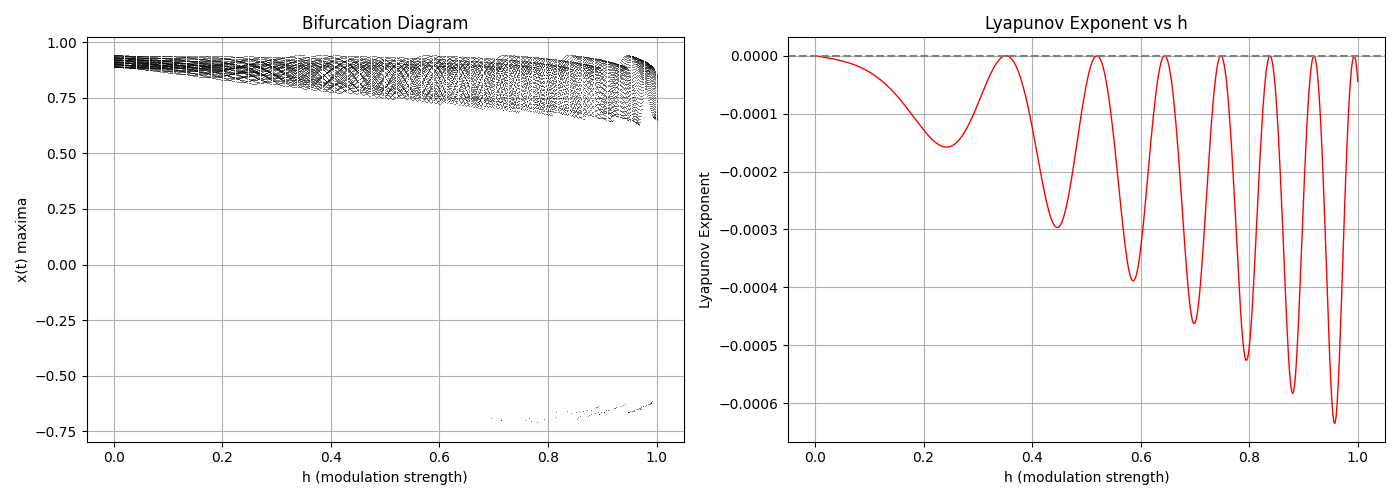
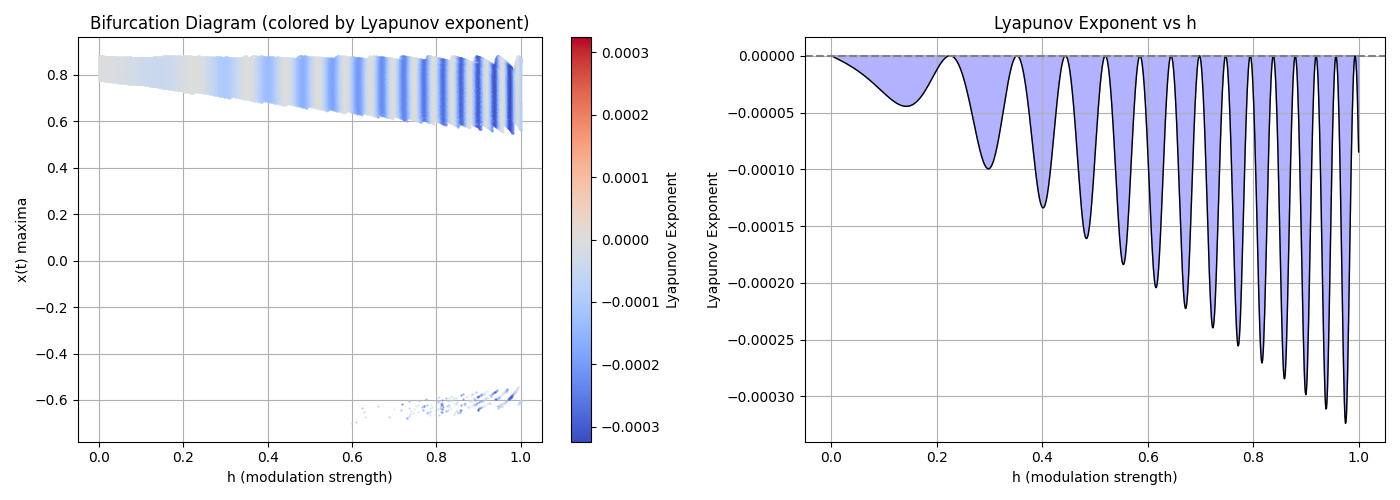
modified:   experimental/statistic.png modified:   experimental/weierstrass_parametric_oscillator_stat.py

diff --git a/experimental/weierstrass_parametric_oscillator_stat.py b/experimental/weierstrass_parametric_oscillator_stat.py
@@ -3,224 +3,157 @@ import matplotlib.pyplot as plt
 from scipy.signal import argrelextrema
 from numba import njit
 
+
 @njit
-def weierstrass(t, a, b, n_terms):
-    """
-    Calculates the Weierstrass function at a given time t.
-
-    Args:
-        t (float): The time at which to evaluate the function.
-        a (float): Parameter of the Weierstrass function.
-        b (float): Parameter of the Weierstrass function.
-        n_terms (int): Number of terms to sum in the series.
-
-    Returns:
-        float: The value of the Weierstrass function.
-    """
-    total = 0.0
+def precompute_powers(a, b, n_terms):
+    a_powers = np.empty(n_terms)
+    b_powers = np.empty(n_terms)
+    a_val = 1.0
+    b_val = 1.0
     for n in range(n_terms):
-        total += a**n * np.cos(np.pi * b**n * t)
-    return total
+        a_powers[n] = a_val
+        b_powers[n] = b_val
+        a_val *= a
+        b_val *= b
+    return a_powers, b_powers
+
 
 @njit
-def solve_oscillator(t, omega0, h, a, b, n_terms, dt):
-    """           
-    Solves the modified harmonic oscillator equation using a numerical method.
+def precompute_weierstrass(t, a_powers, b_powers):
+    n_terms = len(a_powers)
+    W = np.empty(len(t))
+    for i in range(len(t)):
+        total = 0.0
+        for n in range(n_terms):
+            total += a_powers[n] * np.cos(np.pi * b_powers[n] * t[i])
+        W[i] = total
+    return W
 
-    Args:
-        t (np.ndarray): Array of time points.
-        omega0 (float): Natural frequency of the oscillator.
-        h (float): Modulation strength.
-        a (float): Parameter for Weierstrass function.
-        b (float): Parameter for Weierstrass function.
-        n_terms (int): Number of terms for Weierstrass function.
-        dt (float): Time step size.
 
-    Returns:
-        tuple: x (np.ndarray), v (np.ndarray), W (np.ndarray) -
-               position, velocity, and Weierstrass function values over time.
-    """
+@njit
+def solve_oscillator_with_W(t, omega0, h, W, dt):
     n_steps = len(t)
     x = np.zeros(n_steps)
     v = np.zeros(n_steps)
-    x[0] = 1.0  # Initial position
-    v[0] = 0.0  # Initial velocity
-    W = np.zeros(n_steps)
-
+    x[0] = 1.0
+    v[0] = 0.0
     for i in range(1, n_steps):
-        # Calculate Weierstrass function at current time step
-        W_current = weierstrass(t[i-1], a, b, n_terms)
-        W[i-1] = W_current
-
-        # Calculate omega_sq for the current step
-        omega_sq = omega0**2 * (1 + h * W_current)
-
-        # Update position using a modified Euler-Cromer like method
-        # This is an approximation for the second-order differential equation
+        omega_sq = omega0**2 * (1 + h * W[i-1])
         x[i] = x[i-1] + v[i-1]*dt - 0.5 * omega_sq * x[i-1] * dt**2
-
-        # Calculate omega_sq for the next step (for velocity update)
-        W_next = weierstrass(t[i], a, b, n_terms)
-        omega_sq_next = omega0**2 * (1 + h * W_next)
-
-        # Update velocity
-        # This update uses an average of current and next omega_sq for better accuracy
+        omega_sq_next = omega0**2 * (1 + h * W[i])
         v[i] = v[i-1] - 0.5 * (omega_sq + omega_sq_next) * x[i] * dt
-    return x, v, W
+    return x, v
+
 
 @njit
-def compute_lyapunov(t, omega0, h, a, b, n_terms, dt, delta0=1e-8):
-    """
-    Computes the largest Lyapunov exponent for the modified harmonic oscillator.
-    Uses the Benettin algorithm for calculating the Lyapunov exponent.
-
-    Args:
-        t (np.ndarray): Array of time points.
-        omega0 (float): Natural frequency of the oscillator.
-        h (float): Modulation strength.
-        a (float): Parameter for Weierstrass function.
-        b (float): Parameter for Weierstrass function.
-        n_terms (int): Number of terms for Weierstrass function.
-        dt (float): Time step size.
-        delta0 (float, optional): Initial perturbation magnitude. Defaults to 1e-8.
-
-    Returns:
-        float: The computed Lyapunov exponent.
-    """
+def compute_lyapunov_with_W(t, omega0, h, W, dt, delta0=1e-8):
     n_steps = len(t)
-    x = 1.0  # Initial position of reference trajectory
-    x_perturbed = x + delta0 # Initial position of perturbed trajectory
-    v = 0.0  # Initial velocity of reference trajectory
-    v_perturbed = v # Initial velocity of perturbed trajectory (same as reference for dv=0)
+    x = 1.0
+    x_perturbed = x + delta0
+    v = 0.0
+    v_perturbed = v
     sum_log_divergence = 0.0
 
     for i in range(1, n_steps):
-        # Evaluate Weierstrass function at the previous time step for omega_sq calculation
-        W_current = weierstrass(t[i-1], a, b, n_terms)
-        omega_sq_current = omega0**2 * (1 + h * W_current)
+        omega_sq = omega0**2 * (1 + h * W[i-1])
+        x_new = x + v * dt - 0.5 * omega_sq * x * dt**2
+        v_new = v - 0.5 * omega_sq * (x + x_new) * dt
+        x_perturbed_new = x_perturbed + v_perturbed * \
+            dt - 0.5 * omega_sq * x_perturbed * dt**2
+        v_perturbed_new = v_perturbed - 0.5 * omega_sq * \
+            (x_perturbed + x_perturbed_new) * dt
 
-        # Propagate reference trajectory
-        x_new = x + v * dt - 0.5 * omega_sq_current * x * dt**2
-        # For velocity, use current omega_sq and the new position (x_new)
-        v_new = v - 0.5 * omega_sq_current * (x + x_new) * dt
-
-        # Propagate perturbed trajectory
-        x_perturbed_new = x_perturbed + v_perturbed * dt - 0.5 * omega_sq_current * x_perturbed * dt**2
-        v_perturbed_new = v_perturbed - 0.5 * omega_sq_current * (x_perturbed + x_perturbed_new) * dt
-
-        # Calculate the divergence vector
         dx = x_perturbed_new - x_new
         dv = v_perturbed_new - v_new
-
-        # Calculate the current divergence magnitude
         delta = np.sqrt(dx*dx + dv*dv)
 
-        # Avoid division by zero if delta becomes zero (should ideally not happen with proper dynamics)
         if delta == 0.0:
-            # If divergence is zero, re-perturb to delta0 to avoid issues, or continue
-            # For robust Lyapunov calculation, it's better to re-perturb
-            # For this simple example, we'll continue, but a more rigorous approach would handle this
             continue
 
-        # Add logarithm of divergence ratio to sum
         sum_log_divergence += np.log(delta / delta0)
-
-        # Rescale the perturbed trajectory back to delta0 distance
         scale = delta0 / delta
         x_perturbed_new = x_new + dx * scale
         v_perturbed_new = v_new + dv * scale
 
-        # Update states for the next iteration
         x, v = x_new, v_new
         x_perturbed, v_perturbed = x_perturbed_new, v_perturbed_new
 
-    # Calculate Lyapunov exponent as the average log divergence per unit time
     return sum_log_divergence / (t[-1] - t[0])
 
+
 def get_maxima(x, t, discard_ratio=0.5):
-    """
-    Finds local maxima in the position array x, discarding initial transient points.
-
-    Args:
-        x (np.ndarray): Array of position values.
-        t (np.ndarray): Array of time points corresponding to x.
-        discard_ratio (float, optional): Fraction of initial time to discard
-                                         to avoid transient behavior. Defaults to 0.5.
-
-    Returns:
-        np.ndarray: Array of filtered maxima values.
-    """
-    # Find indices of local maxima
     idx_peaks = argrelextrema(x, np.greater)[0]
     if len(idx_peaks) == 0:
-        return np.array([])  # Return empty array if no peaks found
-
-    # Determine the time after which to consider peaks
+        return np.array([])
     discard_time = t[0] + discard_ratio * (t[-1] - t[0])
-
-    # Filter peaks that occur after the discard time
     filtered_peaks = [x[i] for i in idx_peaks if t[i] > discard_time]
     return np.array(filtered_peaks)
 
-def plot_bifurcation_and_lyapunov(h_vals, t, omega0, a, b, n_terms, dt):
-    """
-    Plots the bifurcation diagram and the Lyapunov exponent as a function of h.
 
-    Args:
-        h_vals (np.ndarray): Array of modulation strengths (h) to test.
-        t (np.ndarray): Array of time points for simulation.
-        omega0 (float): Natural frequency of the oscillator.
-        a (float): Parameter for Weierstrass function.
-        b (float): Parameter for Weierstrass function.
-        n_terms (int): Number of terms for Weierstrass function.
-        dt (float): Time step size.
-    """
+def plot_bifurcation_and_lyapunov(h_vals, t, omega0, a, b, n_terms, dt):
+    a_powers, b_powers = precompute_powers(a, b, n_terms)
+    W = precompute_weierstrass(t, a_powers, b_powers)
+
     fig, axs = plt.subplots(1, 2, figsize=(14, 5))
 
-    # --- Bifurcation Diagram ---
-    # Iterate through each h value to simulate and find maxima
-    for h in h_vals:
-        x, v, W = solve_oscillator(t, omega0, h, a, b, n_terms, dt)
-        peaks = get_maxima(x, t, discard_ratio=0.5)
-        if len(peaks) > 0:
-            # CORRECTED: Plot h on x-axis and peaks on y-axis
-            axs[0].plot([h]*len(peaks), peaks, ',k', alpha=0.5)
+    # Precompute Lyapunov exponents for coloring
+    exponents = np.array([compute_lyapunov_with_W(t, omega0, h, W, dt) for h in h_vals])
+    
+    # Create a diverging colormap: blue (negative) -> white (0) -> red (positive)
+    cmap = plt.cm.coolwarm  
+    
+    # Normalize exponents with 0 at the center
+    max_abs = max(abs(exponents.min()), abs(exponents.max()))
+    norm = plt.Normalize(vmin=-max_abs, vmax=max_abs)
 
+    # Create a ScalarMappable for the colorbar
+    sm = plt.cm.ScalarMappable(cmap=cmap, norm=norm)
+    sm.set_array([])
+
+    # Plot bifurcation diagram with colored points
+    for i, h in enumerate(h_vals):
+        x, v = solve_oscillator_with_W(t, omega0, h, W, dt)
+        peaks = get_maxima(x, t)
+        if len(peaks) > 0:
+            color = cmap(norm(exponents[i]))
+            axs[0].plot([h]*len(peaks), peaks, '.', color=color, markersize=1, alpha=0.7)
+    
     axs[0].set_xlabel('h (modulation strength)')
     axs[0].set_ylabel('x(t) maxima')
-    axs[0].set_title('Bifurcation Diagram')
+    axs[0].set_title('Bifurcation Diagram (colored by Lyapunov exponent)')
     axs[0].grid(True)
+    
+    # Add colorbar to the bifurcation plot
+    cbar = fig.colorbar(sm, ax=axs[0])
+    cbar.set_label('Lyapunov Exponent')
 
-    # --- Lyapunov Exponent ---
-    exponents = []
-    # Iterate through each h value to compute the Lyapunov exponent
-    for h in h_vals:
-        lce = compute_lyapunov(t, omega0, h, a, b, n_terms, dt)
-        exponents.append(lce)
-    axs[1].plot(h_vals, exponents, 'r-', linewidth=1)
-    axs[1].axhline(0, color='gray', linestyle='--') # Add a horizontal line at y=0
+    # Plot Lyapunov exponents
+    axs[1].plot(h_vals, exponents, 'k-', linewidth=1)  # Now in black for clarity
+    axs[1].axhline(0, color='gray', linestyle='--')
+    
+    # Color the area under the curve based on exponent sign
+    axs[1].fill_between(h_vals, exponents, where=(exponents>=0), 
+                       color='red', alpha=0.3, interpolate=True)
+    axs[1].fill_between(h_vals, exponents, where=(exponents<0), 
+                       color='blue', alpha=0.3, interpolate=True)
+    
     axs[1].set_xlabel('h (modulation strength)')
     axs[1].set_ylabel('Lyapunov Exponent')
     axs[1].set_title('Lyapunov Exponent vs h')
     axs[1].grid(True)
 
-    plt.tight_layout() # Adjust layout to prevent overlapping titles/labels
+    plt.tight_layout()
     plt.show()
 
-# --- Example Usage ---
-if __name__ == '__main__':
-    # Define parameters for the oscillator and Weierstrass function
-    omega0 = 1.0
-    a = 0.5
-    b = 7
-    n_terms = 30
-    dt = 0.001
-    T_max = 500  # Total simulation time
-    t = np.arange(0, T_max, 0.001)
 
-    # Define the range of h values for the bifurcation diagram and Lyapunov exponent plot
-    h_vals = np.linspace(0, 1.0, 500) # Increased resolution for h_vals
+# Example usage
+omega0 = 1.0
+a = 0.5
+b = 7
+n_terms = 30
+dt = 0.001
+T_max = 1000
+t = np.arange(0, T_max, dt)
+h_vals = np.linspace(0.0, 1.0, 1000)
 
-    # Call the plotting function
-    plot_bifurcation_and_lyapunov(h_vals, t, omega0, a, b, n_terms, dt)
-
+plot_bifurcation_and_lyapunov(h_vals, t, omega0, a, b, n_terms, dt)
